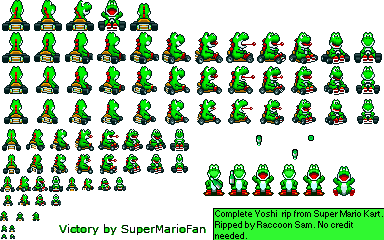
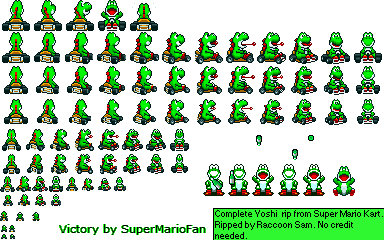
Added driver textures for all 8 drivers + utils script
- rough remove_green script to remove background and unwanted pixels

diff --git a/utils/remove_green.py b/utils/remove_green.py
@@ -1,0 +1,22 @@
+from PIL import Image
+import numpy as np
+import matplotlib.pyplot as plt
+
+img = Image.open('assets/drivers/yoshi.png').convert('RGBA')
+img_array = np.array(img)
+# green = np.array([68, 255, 68, 255])
+green = np.array([51, 255, 51, 255])
+print(green)
+print(img_array[0, 0, :])
+
+green_mask = np.all(img_array == green, axis=-1)
+img_array[green_mask, 3] = 0
+
+green = np.array([32, 246, 32, 255])
+green_mask = np.all(img_array == green, axis=-1)
+img_array[green_mask, 3] = 0
+
+# plt.imshow(green_mask)
+plt.imshow(img_array / 255)
+plt.show()
+Image.fromarray(img_array, 'RGBA').save('assets/drivers/yoshi.png')
